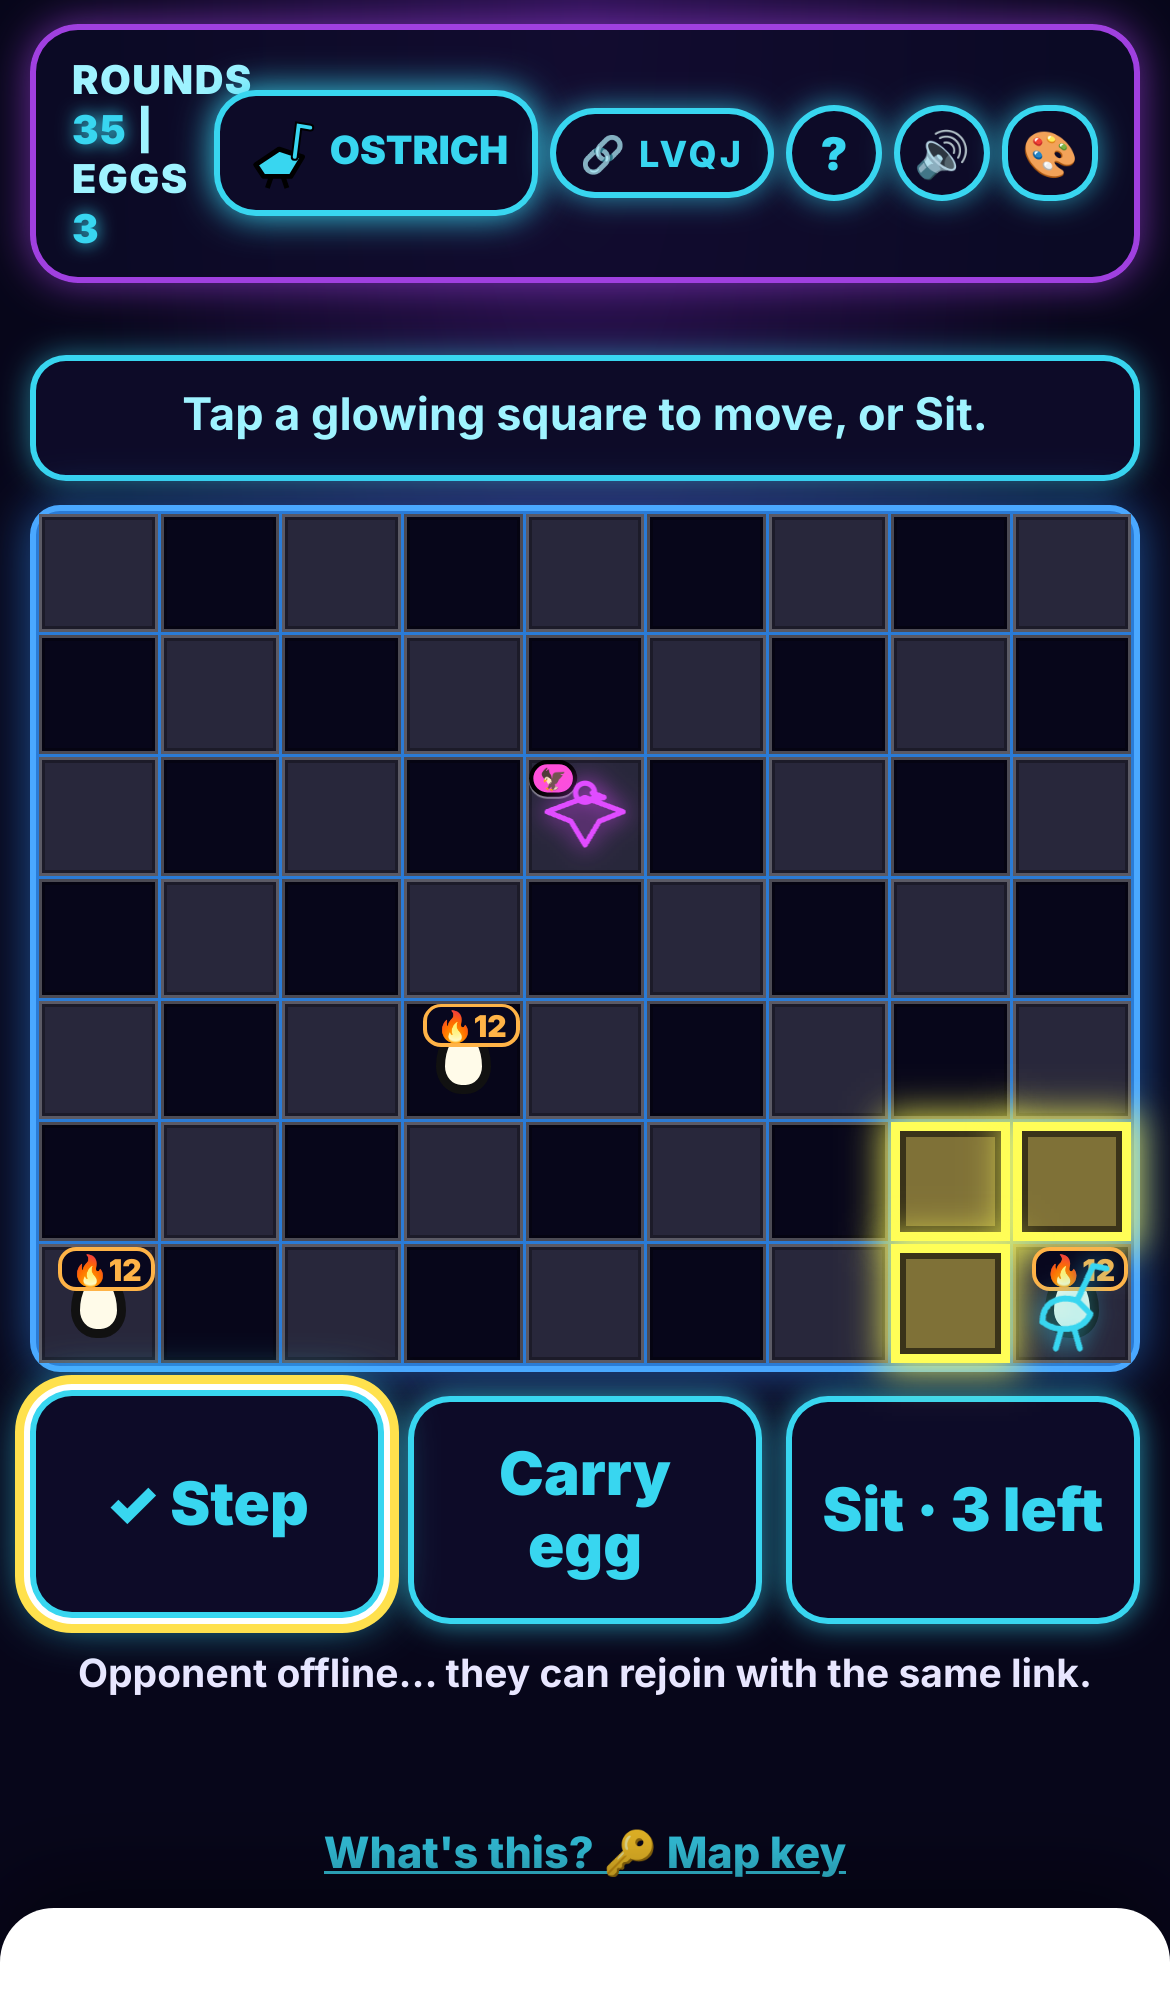
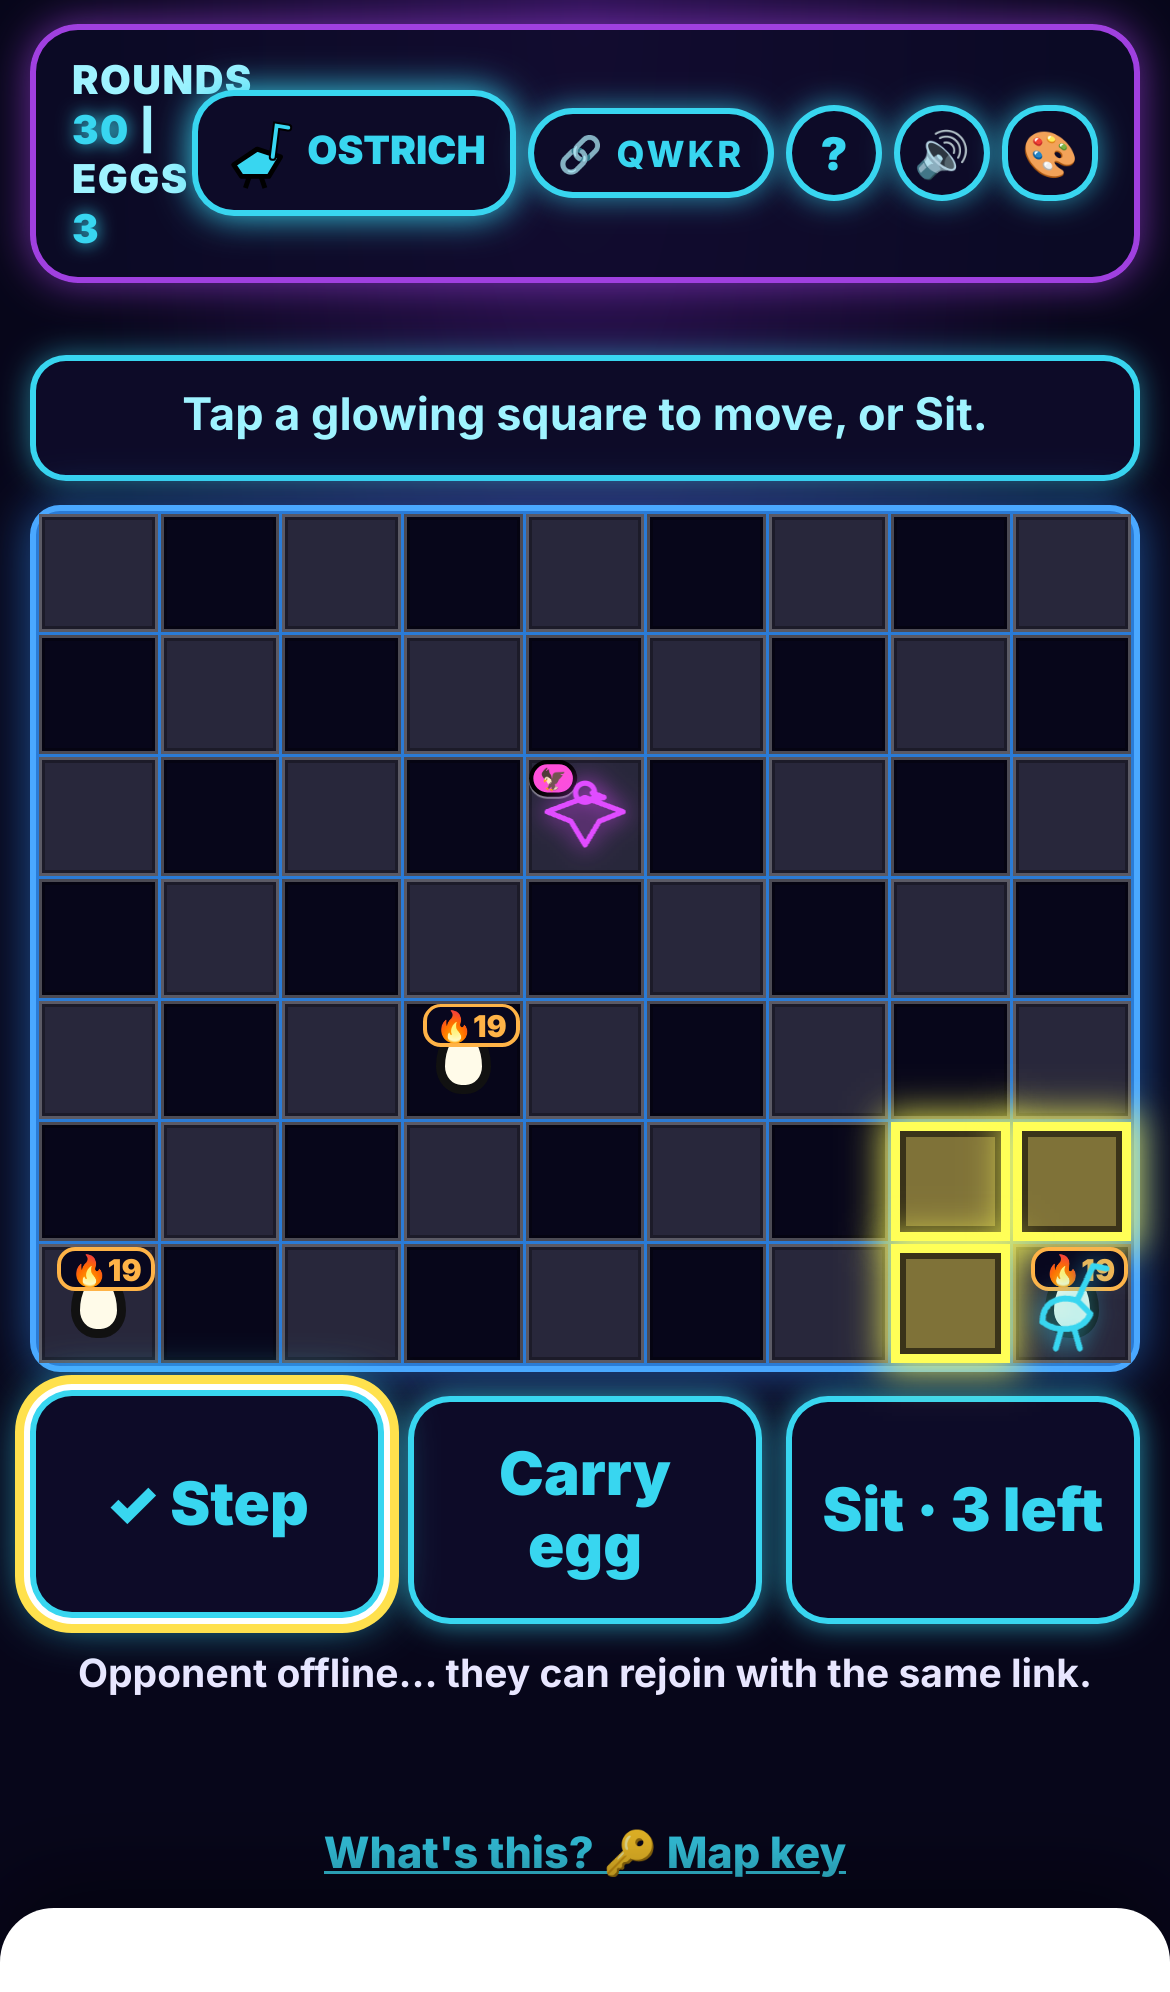
Rebalance: rounds 30, warmth 20; easy vulture throws less eagerly; fix legend shot script

diff --git a/test.js b/test.js
@@ -2,7 +2,7 @@ const B=require('./game.js');const assert=require('assert');let n=0;const t=(nam
 const C=B.CONFIG;
 function setup(cfg){const g=B.newGame(cfg);B.placeEgg(g,[0,0]);B.placeEgg(g,[8,6]);B.placeEgg(g,[0,6]);B.placeOstrich(g,[0,0]);B.vultureFly(g,[4,2]);return g;}
 const fl=(g,i)=>B.vultureFly(g,g.vulture[1]===2?[4,3]:[4,2]);
-t('balanced config',()=>{assert.equal(C.rounds,35);assert(C.warmth>=10&&C.warmth<=16);assert.equal(C.maxSit,3);assert.equal(C.vultureFly,2);assert.equal(C.throwRange,1);
+t('balanced config',()=>{assert.equal(C.rounds,30);assert(C.warmth>=10&&C.warmth<=22);assert.equal(C.maxSit,3);assert.equal(C.vultureFly,2);assert.equal(C.throwRange,1);
  for(const k of['fakeNests','stones','rocks','foodMin','maxCarry'])assert(!(k in C),'removed '+k);});
 t('setup: vulture opens; cannot hide egg under vulture',()=>{const g=setup();assert.equal(g.phase,'play');assert.equal(g.turn,'blue');assert(!B.placeEgg(B.newGame(),[4,3]))});
 t('ostrich steps 1 square (8 dirs)',()=>{const g=setup();assert(!B.ostrichStep(g,[2,2]));assert(B.ostrichStep(g,[1,1]));assert.equal(g.turn,'red')});
@@ -25,7 +25,7 @@ t('smell history within 2, includes carried egg',()=>{const g=B.newGame();B.plac
  const h=B.newGame();B.placeEgg(h,[8,6]);B.placeEgg(h,[0,6]);B.placeEgg(h,[0,0]);B.placeOstrich(h,[8,6]);B.vultureFly(h,[5,4]);B.ostrichStep(h,[7,5],true);assert(B.smellsEgg(h,[5,3]));});
 t('footprints: steps and sits deepen',()=>{const g=setup();const a=g.prints['0,0'];B.ostrichSit(g);assert.equal(g.prints['0,0'],a+1);fl(g);B.ostrichStep(g,[1,1]);fl(g);B.ostrichStep(g,[0,0]);assert.equal(g.prints['0,0'],a+2)});
 t('warmth: unvisited eggs go cold after N rounds; vulture wins',()=>{const g=setup();for(let r=1;r<=C.warmth+1&&!g.winner;r++){B.ostrichStep(g,[1+r%2,1]);if(!g.winner)fl(g);}assert.equal(g.winner,'red')});
-t('ostrich wins after 35 rounds',()=>{const g=B.newGame();B.placeEgg(g,[0,0]);B.placeEgg(g,[2,0]);B.placeEgg(g,[8,6]);B.placeOstrich(g,[0,0]);B.vultureFly(g,[4,2]);
+t('ostrich wins after C.rounds rounds',()=>{const g=B.newGame();B.placeEgg(g,[0,0]);B.placeEgg(g,[2,0]);B.placeEgg(g,[8,6]);B.placeOstrich(g,[0,0]);B.vultureFly(g,[4,2]);
  for(let r=1;r<=40&&!g.winner;r++){if(B.canSit(g))B.ostrichSit(g);else B.ostrichStep(g,g.ostrich[0]===0?[1,0]:[0,0]);if(!g.winner)fl(g);}
- assert.equal(g.winner,'blue');assert.equal(g.round,35)});
+ assert.equal(g.winner,'blue');assert.equal(g.round,C.rounds)});
 console.log(n+' tests passed');

diff --git a/make-legend-shots.js b/make-legend-shots.js
@@ -21,7 +21,7 @@ const T = ['classic','nature','notes','golden','paper','arcade','toybox','tactic
     await O(); await P.waitForTimeout(200); await P.screenshot({ path: `${OUT}${t}-ostrich.jpg`, type: 'jpeg', quality: 80 });
     await cell(7, 6).click();
     await V(); await P.waitForTimeout(200); await P.screenshot({ path: `${OUT}${t}-vulture.jpg`, type: 'jpeg', quality: 80 });
-    await cell(6, 5).click({ force: true }).catch(()=>{}); // not legal from here? label shows if marked
+    if (!(await cell(6, 5).evaluate(e => e.classList.contains('legal')))) await cell(6, 5).click({ force: true }).catch(()=>{}); // label only; never make a move here
     await P.click('#keyBtn'); await P.waitForTimeout(150); await P.screenshot({ path: `${OUT}${t}-key.jpg`, type: 'jpeg', quality: 80 });
     await P.click('#legendClose'); await P.evaluate(() => UI.walk()); await P.click('#wNext');
     await P.screenshot({ path: `${OUT}${t}-walkthrough.jpg`, type: 'jpeg', quality: 80 });

diff --git a/game.js b/game.js
@@ -2,8 +2,8 @@
 const CONFIG = {
   cols: 9, rows: 7,
   eggs: 3,
-  rounds: 35,          // ostrich wins if any egg survives this many rounds
-  warmth: 13,          // an egg goes cold unless the ostrich is on it (or carrying it) at least once every N rounds
+  rounds: 30,          // ostrich wins if any egg survives this many rounds
+  warmth: 20,          // an egg goes cold unless the ostrich is on it (or carrying it) at least once every N rounds
   maxSit: 3,           // max consecutive Sit turns; then the ostrich must step off for at least one turn
   vultureFly: 2,       // vulture flies up to N squares (king-move distance)
   throwRange: 1,       // vulture throws at its own square or within N (stones are unlimited)

diff --git a/ai.js b/ai.js
@@ -2,7 +2,7 @@
 // the vulture bot never reads egg positions; it works from footprints, marks and its smell history.
 const B = require('./game.js');
 const K = B.key, D = B.dist, R = a => a[Math.random() * a.length | 0];
-const LVL = { easy: { noise: 3, throwBar: 6, sitP: .2, fea: 2, yes: 0, no: 1 }, normal: { noise: .3, throwBar: 2, sitP: .35, fea: 8, yes: .3, no: .2 } };
+const LVL = { easy: { noise: 3, throwBar: 8, sitP: .2, fea: 2, yes: 0, no: 1 }, normal: { noise: .3, throwBar: 2, sitP: .35, fea: 8, yes: .3, no: .2 } };
 // --- ostrich: its own eggs and the (public) vulture position are fair game ---
 function ostrich(g, lvl = 'normal') {
   const L = LVL[lvl] || LVL.normal, C = g.cfg;

diff --git a/README.md b/README.md
@@ -7,7 +7,7 @@ Games live in memory: a restart or free-tier sleep ends games in progress.
 
 ## Balance (sim.js)
 `node sim.js 6000` pits an ostrich bot (coldest-egg routing, guards when the vulture is near, carries spotted eggs away, obeys the sit cap) against a vulture bot (hunts footprints, uses smell history to rule squares in/out, throws at guarded/spotted squares).
-Balanced CONFIG: rounds 35, warmth 13, maxSit 3, fly 2, throw adjacent (unlimited stones), smell 2 → vulture wins ~50%, avg 25 rounds. Stone throws animate via public/smash.js (egg crack + yolk on a hit, dust on a miss, feather bounce when guarded).
+Balanced CONFIG: rounds 30, warmth 20, maxSit 3, fly 2, throw adjacent (unlimited stones), smell 2 → Normal bots: vulture ~50%, avg ~25.5 rounds; Easy ~40%. Stone throws animate via public/smash.js (egg crack + yolk on a hit, dust on a miss, feather bounce when guarded).
 
 ## Themes
 `classic` (default), `nature`, `neon`. Use 🎨 in the HUD/title, or `?theme=nature`; saved in localStorage `bo_theme`. CSS only (`public/themes.css`, `public/theme.js`).
